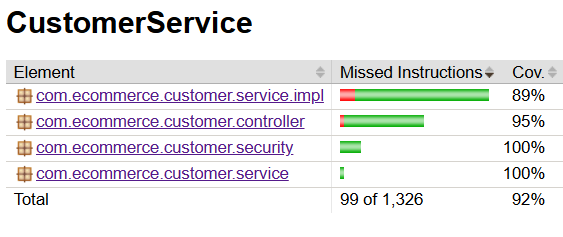
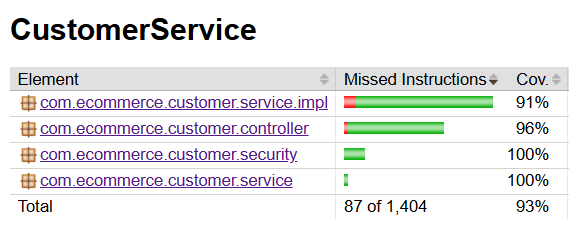
Added API to directly login via otp validation added relevant test cases

diff --git a/src/test/java/com/ecommerce/customer/serviceimpl/CustomerDetailsServiceImplTest.java b/src/test/java/com/ecommerce/customer/serviceimpl/CustomerDetailsServiceImplTest.java
@@ -7,6 +7,7 @@ import com.ecommerce.customer.entity.Customer;
 import com.ecommerce.customer.entity.CustomerAuth;
 import com.ecommerce.customer.entity.DefaultAddress;
 import com.ecommerce.customer.exception.CustomerException;
+import com.ecommerce.customer.exception.ErrorCode;
 import com.ecommerce.customer.repository.*;
 import com.ecommerce.customer.service.declaration.CustomerService;
 import com.ecommerce.customer.service.impl.CustomerDetailsServiceImpl;
@@ -110,7 +111,6 @@ public class CustomerDetailsServiceImplTest {
 
     @Test
     public void testGetUser_Authenticated() throws CustomerException {
-        // Mock SecurityContextHolder to return a valid Authentication object
         SecurityContext securityContext = mock(SecurityContext.class);
         SecurityContextHolder.setContext(securityContext);
         when(securityContext.getAuthentication()).thenReturn(authentication);
@@ -133,7 +133,6 @@ public class CustomerDetailsServiceImplTest {
 
     @Test
     public void testPasswordVerify() throws CustomerException {
-        // Mock SecurityContextHolder to return a valid Authentication object
         SecurityContext securityContext = mock(SecurityContext.class);
         SecurityContextHolder.setContext(securityContext);
         when(securityContext.getAuthentication()).thenReturn(authentication);
@@ -148,7 +147,6 @@ public class CustomerDetailsServiceImplTest {
 
     @Test
     public void testChangePassword() throws CustomerException {
-        // Mock SecurityContextHolder to return a valid Authentication object
         SecurityContext securityContext = mock(SecurityContext.class);
         SecurityContextHolder.setContext(securityContext);
         when(securityContext.getAuthentication()).thenReturn(authentication);
@@ -165,7 +163,6 @@ public class CustomerDetailsServiceImplTest {
 
     @Test
     public void testInvalidateAllToken() throws CustomerException {
-        // Mock SecurityContextHolder to return a valid Authentication object
         SecurityContext securityContext = mock(SecurityContext.class);
         SecurityContextHolder.setContext(securityContext);
         when(securityContext.getAuthentication()).thenReturn(authentication);
@@ -184,7 +181,6 @@ public class CustomerDetailsServiceImplTest {
 
     @Test
     public void testDeleteAcc() throws CustomerException {
-        // Mock SecurityContextHolder to return a valid Authentication object
         SecurityContext securityContext = mock(SecurityContext.class);
         SecurityContextHolder.setContext(securityContext);
         when(securityContext.getAuthentication()).thenReturn(authentication);
@@ -199,7 +195,7 @@ public class CustomerDetailsServiceImplTest {
     }
 
     @Test
-    public void testEditDetails() throws CustomerException {
+    public void testEditDetails_ValidUserId() throws CustomerException {
         when(customerRepository.existsById(anyInt())).thenReturn(true);
         when(modelMapper.map(any(CustomerDto.class), any(Class.class))).thenReturn(customer);
 
@@ -210,8 +206,19 @@ public class CustomerDetailsServiceImplTest {
     }
 
     @Test
-    public void testChangeEmail() throws CustomerException {
-        // Mock SecurityContextHolder to return a valid Authentication object
+    public void editDetails_InvalidUserId() {
+        when(modelMapper.map(any(CustomerDto.class), any(Class.class))).thenReturn(customer);
+        when(customerRepository.existsById(anyInt())).thenReturn(false);
+
+        CustomerException exception = assertThrows(CustomerException.class, () -> {
+            customerDetailsService.editDetails(customerDto);
+        });
+
+        assertEquals(ErrorCode.INVALID_USER_ID.name(), exception.getMessage());
+    }
+
+    @Test
+    public void testChangeEmail_EmailDoNotExist() throws CustomerException {
         SecurityContext securityContext = mock(SecurityContext.class);
         SecurityContextHolder.setContext(securityContext);
         when(securityContext.getAuthentication()).thenReturn(authentication);
@@ -226,8 +233,18 @@ public class CustomerDetailsServiceImplTest {
     }
 
     @Test
+    public void changeEmail_EmailExists() {
+        when(customerService.isPresent(anyString())).thenReturn(true);
+
+        CustomerException exception = assertThrows(CustomerException.class, () -> {
+            customerDetailsService.changeEmail("existing@example.com");
+        });
+
+        assertEquals(ErrorCode.EMAIL_ALREADY_EXISTS.name(), exception.getMessage());
+    }
+
+    @Test
     public void testAddAddress() throws CustomerException {
-        // Mock SecurityContextHolder to return a valid Authentication object
         SecurityContext securityContext = mock(SecurityContext.class);
         SecurityContextHolder.setContext(securityContext);
         when(securityContext.getAuthentication()).thenReturn(authentication);
@@ -246,7 +263,6 @@ public class CustomerDetailsServiceImplTest {
 
     @Test
     public void testGetAddress() throws CustomerException {
-        // Mock SecurityContextHolder to return a valid Authentication object
         SecurityContext securityContext = mock(SecurityContext.class);
         SecurityContextHolder.setContext(securityContext);
         when(securityContext.getAuthentication()).thenReturn(authentication);
@@ -264,7 +280,6 @@ public class CustomerDetailsServiceImplTest {
 
     @Test
     public void testEditAddress() throws CustomerException {
-        // Mock SecurityContextHolder to return a valid Authentication object
         SecurityContext securityContext = mock(SecurityContext.class);
         SecurityContextHolder.setContext(securityContext);
         when(securityContext.getAuthentication()).thenReturn(authentication);

diff --git a/src/test/java/com/ecommerce/customer/controller/CustomerAuthControllerTest.java b/src/test/java/com/ecommerce/customer/controller/CustomerAuthControllerTest.java
@@ -123,6 +123,52 @@ public class CustomerAuthControllerTest {
     }
 
     @Test
+    public void validateEmailOtpV2_ValidOtpAndRegisteredUser() throws CustomerException {
+        when(otpService.validateOtp(anyString(), anyInt())).thenReturn(true);
+        when(customerService.isPresent(anyString())).thenReturn(true);
+        when(jwtHelper.generateToken(anyString())).thenReturn("jwtToken");
+        when(refreshTokenService.getRefreshToken(anyString())).thenReturn("refreshToken");
+        when(refreshTokenService.extractExpiration(anyString())).thenReturn(Instant.now().plusSeconds(300));
+        when(customerService.welcomeService(anyString())).thenReturn("Welcome Test User");
+
+        ResponseEntity response = customerAuthController.validateEmailOtpV2(new OtpDetailsDto("test@example.com", 1234));
+
+        assertEquals(HttpStatus.OK, response.getStatusCode());
+        OtpValidationResponse responseBody = (OtpValidationResponse) response.getBody();
+        assertNotNull(responseBody);
+        assertTrue(responseBody.getIsValid());
+        assertTrue(responseBody.getIsRegistered());
+        JwtTokens tokens = responseBody.getTokens();
+        assertNotNull(tokens);
+        assertEquals("jwtToken", tokens.getAccessToken());
+        assertEquals("refreshToken", tokens.getRefreshToken());
+    }
+
+    @Test
+    public void validateEmailOtpV2_ValidOtpAndUnregisteredUser() throws CustomerException {
+        when(otpService.validateOtp(anyString(), anyInt())).thenReturn(true);
+        when(customerService.isPresent(anyString())).thenReturn(false);
+
+        ResponseEntity response = customerAuthController.validateEmailOtpV2(new OtpDetailsDto("test@example.com", 1234));
+
+        assertEquals(HttpStatus.OK, response.getStatusCode());
+        OtpValidationResponse responseBody = (OtpValidationResponse) response.getBody();
+        assertNotNull(responseBody);
+        assertTrue(responseBody.getIsValid());
+        assertFalse(responseBody.getIsRegistered());
+        assertNull(responseBody.getTokens());
+    }
+
+    @Test
+    public void validateEmailOtpV2_InvalidOtp() throws CustomerException {
+        when(otpService.validateOtp(anyString(), anyInt())).thenReturn(false);
+
+        assertThrows(CustomerException.class, () -> {
+            customerAuthController.validateEmailOtpV2(new OtpDetailsDto("test@example.com", 1234));
+        });
+    }
+
+    @Test
     public void customerRegisterApi_ValidRegistration() throws CustomerException {
         CustomerDto customerDto = new CustomerDto();
         customerDto.setEmail("test@example.com");

diff --git a/src/main/java/com/ecommerce/customer/controller/CustomerAuthController.java b/src/main/java/com/ecommerce/customer/controller/CustomerAuthController.java
@@ -103,6 +103,35 @@ public class CustomerAuthController {
 		}
 	}
 
+	@Operation(summary = "To validate Otp for email validation V2")
+	@ApiResponses(value = {
+			@ApiResponse(responseCode = "200", description = "OTP successfully validated & User is already registered.",
+					content = { @Content(mediaType = "application/json",
+							schema = @Schema(implementation = OtpValidationResponse.class)) }),
+			@ApiResponse(responseCode = "200", description = "OTP successfully validated but User is not registered.",
+					content = @Content(mediaType = "application/json",
+							schema = @Schema(implementation = OtpValidationResponse.class))),
+			@ApiResponse(responseCode = "400", description = "OTP is invalid or expired.",
+					content = @Content(mediaType = "application/json",
+							schema = @Schema(implementation = ErrorResponse.class))) })
+	@PostMapping("/v2/validate")
+	public ResponseEntity validateEmailOtpV2(@RequestBody OtpDetailsDto otpDetailsDto) throws CustomerException {
+		boolean validated = otpService.validateOtp(otpDetailsDto.getEmail(),otpDetailsDto.getOtp());
+		if (validated) {
+			if(customerService.isPresent(otpDetailsDto.getEmail())) {
+				String jwtToken = jwtHelper.generateToken(otpDetailsDto.getEmail());
+				String refreshToken = refreshTokenService.getRefreshToken(otpDetailsDto.getEmail());
+				JwtTokens tokens= new JwtTokens(jwtToken, refreshToken,refreshTokenService.extractExpiration(refreshToken),customerService.welcomeService(otpDetailsDto.getEmail()),otpDetailsDto.getEmail());
+				return new ResponseEntity<>(new OtpValidationResponse(true,true,tokens), HttpStatus.OK);
+			}else {
+				return new ResponseEntity<>(new OtpValidationResponse(true,false,null), HttpStatus.OK);
+			}
+		} else {
+			throw new CustomerException(ErrorCode.INVALID_OTP.name());
+		}
+	}
+
+
 
 	@Operation(summary = "Register a new customer")
 	@ApiResponses(value = {

diff --git a/src/test/java/com/ecommerce/customer/serviceimpl/OtpServiceImplTest.java b/src/test/java/com/ecommerce/customer/serviceimpl/OtpServiceImplTest.java
@@ -59,7 +59,6 @@ public class OtpServiceImplTest {
     @Test
     public void testValidateOtp_Valid() {
         when(otpRepository.findById(anyString())).thenReturn(Optional.of(otp));
-        //when(valueOperations.get(anyString())).thenReturn(1234);
 
         boolean result = otpService.validateOtp("test@example.com", 1234);
 

diff --git a/src/main/java/com/ecommerce/customer/dto/OtpValidationResponse.java b/src/main/java/com/ecommerce/customer/dto/OtpValidationResponse.java
@@ -1,0 +1,12 @@
+package com.ecommerce.customer.dto;
+
+import lombok.AllArgsConstructor;
+import lombok.Data;
+
+@Data
+@AllArgsConstructor
+public class OtpValidationResponse {
+    private Boolean isValid;
+    private Boolean isRegistered;
+    private JwtTokens tokens;
+}

diff --git a/README.md b/README.md
@@ -32,7 +32,7 @@ The project replicates microservice architecture . It is **hosted on Render.com 
 This service use **PostgreSQL** for data storing and **Redis** for sessions.
 ![CustomerServiceDatabaseDesign.png](CustomerServiceDatabaseDesign.png)
 
-This Project has a code coverage of **92%** and is tested using JUnit and Mockito.
+This Project has a code coverage of **93%** and is tested using JUnit and Mockito.
 
 ![Jacoco Code Coverage&quot;](JacocoCodeCoverage.png)
 
